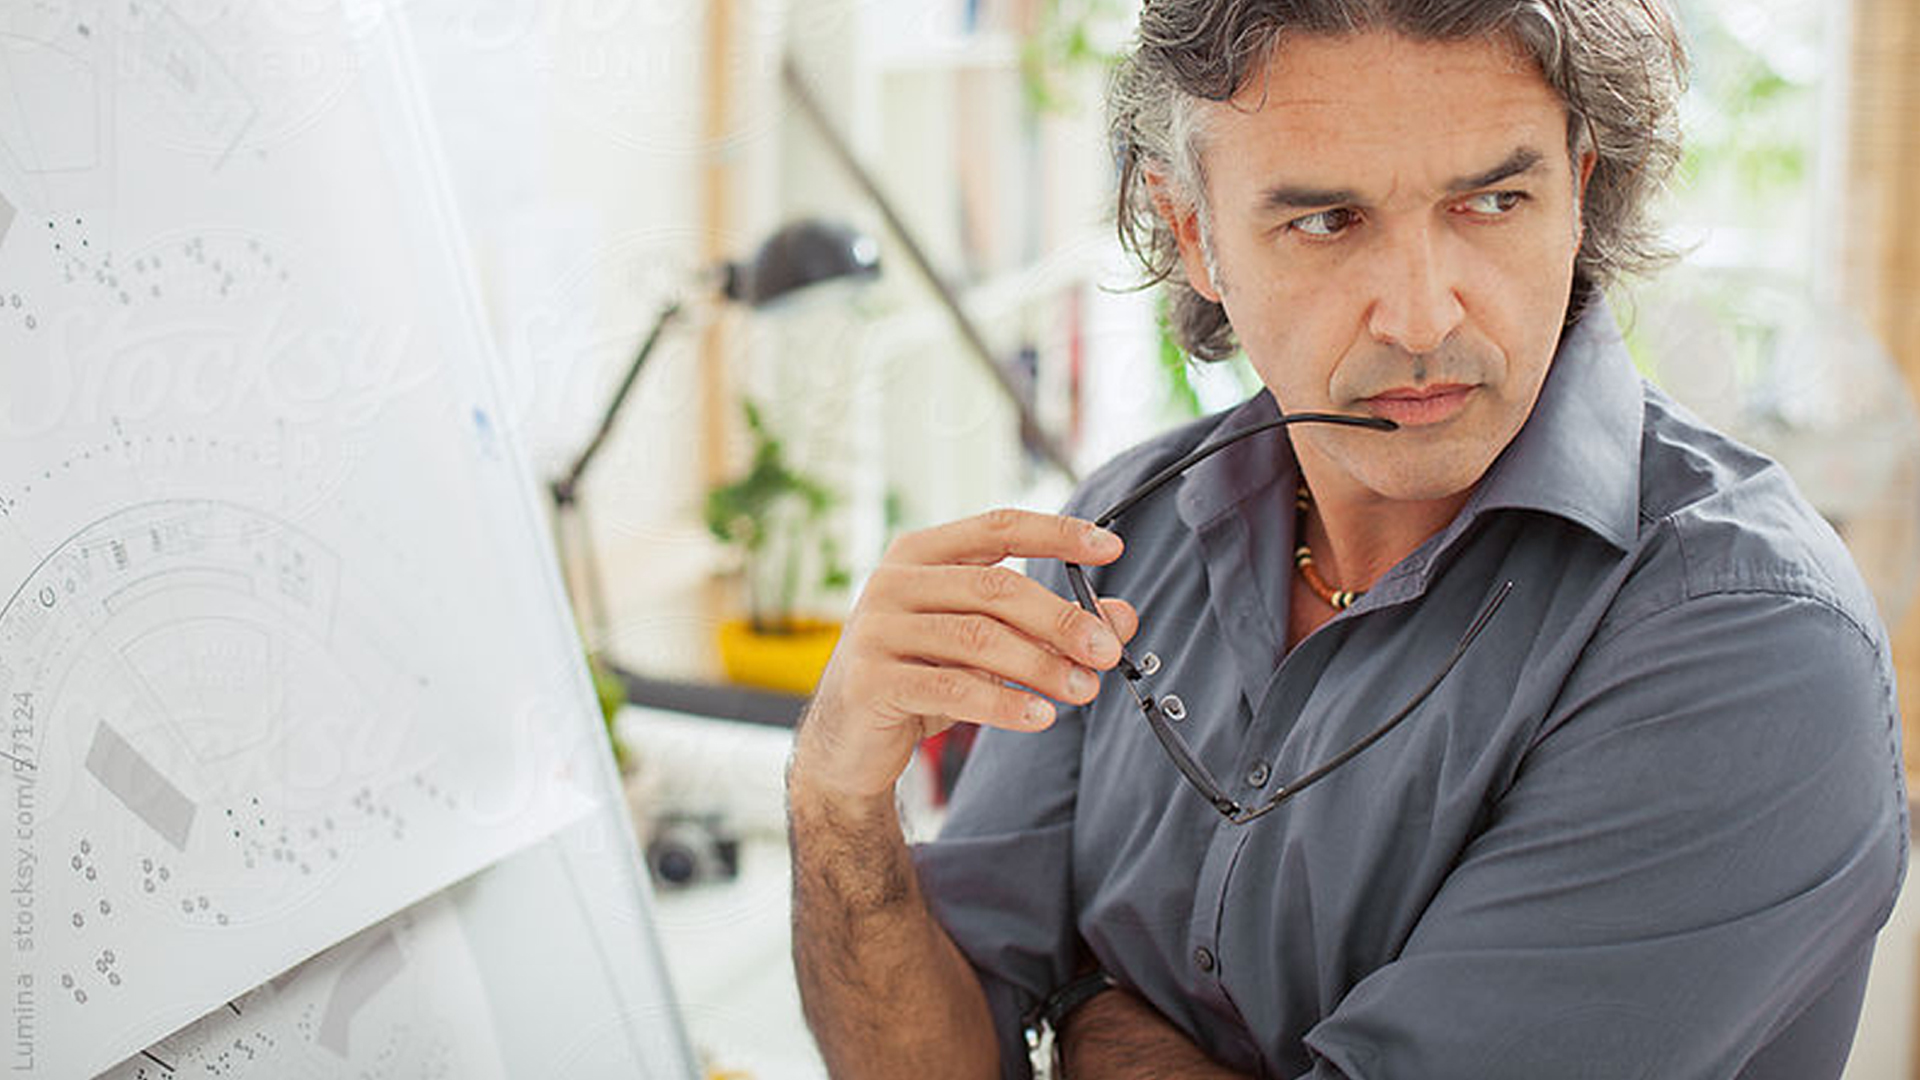
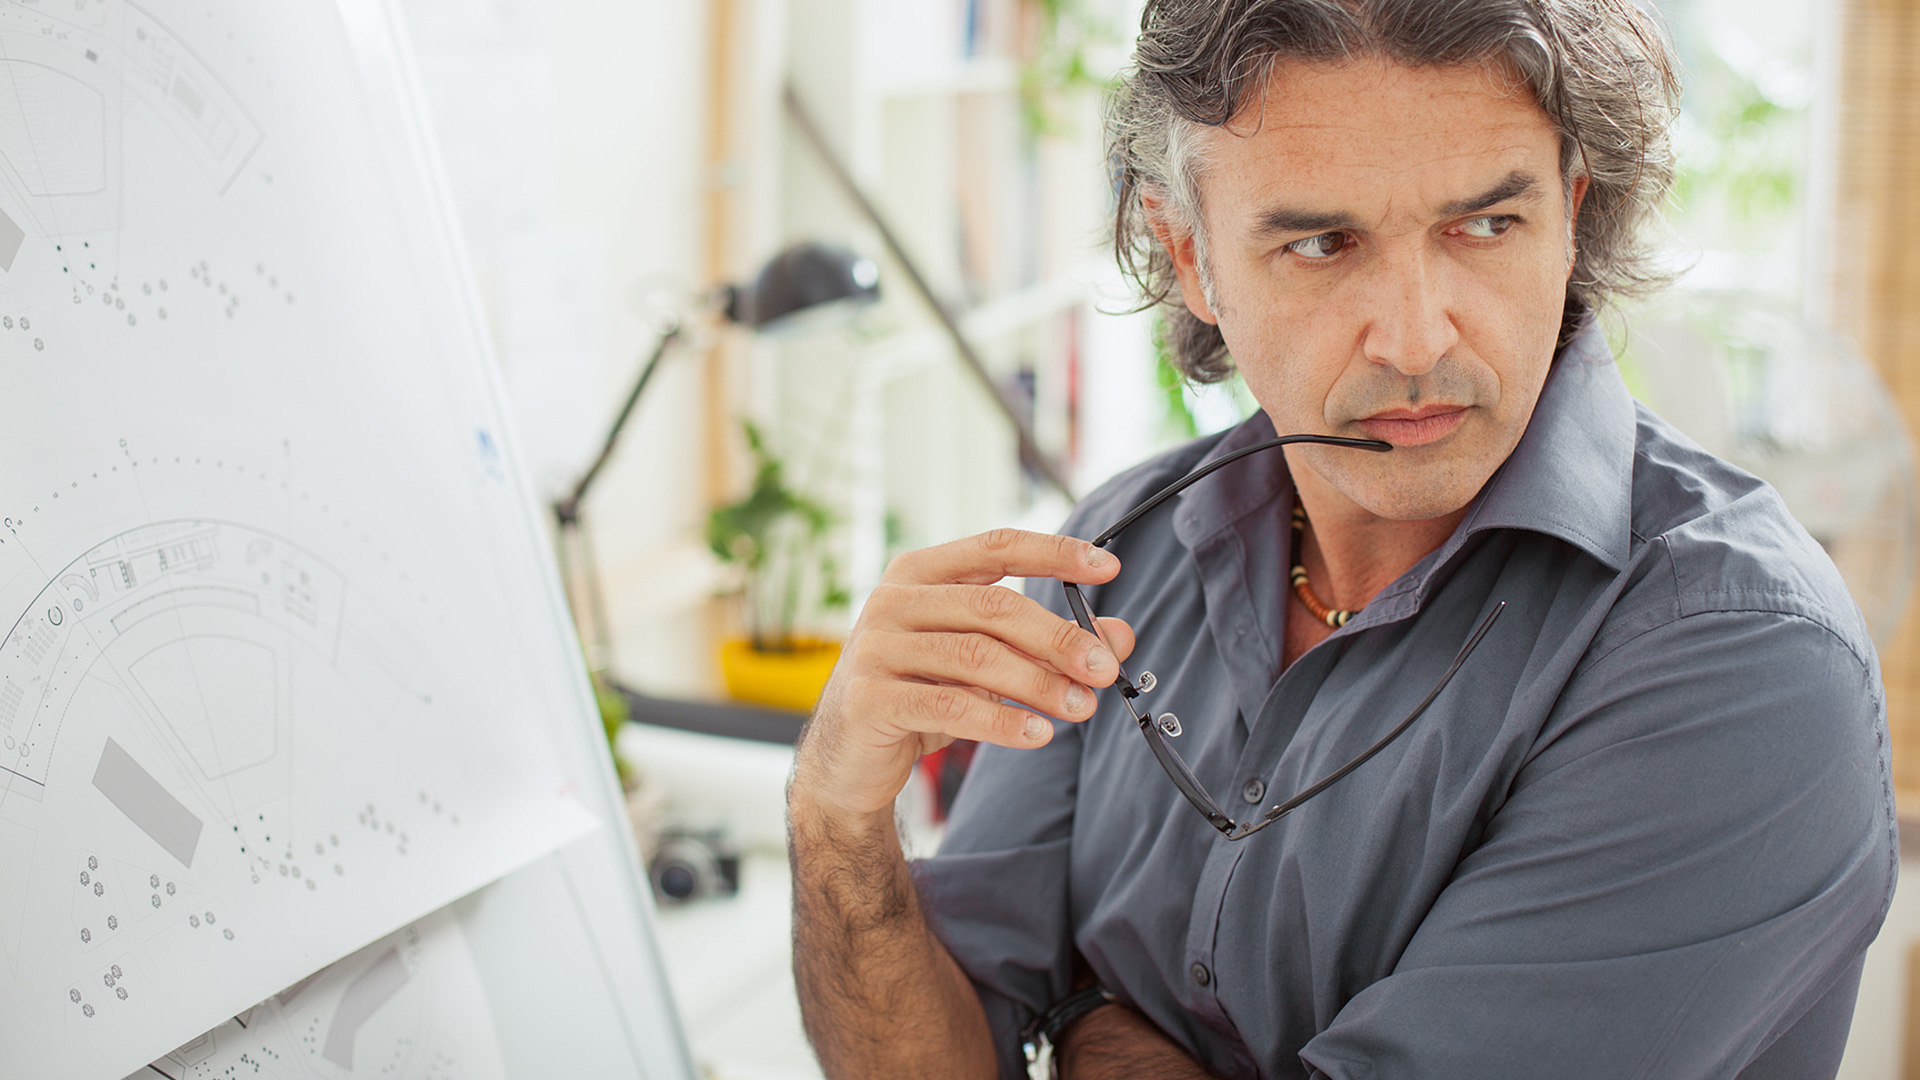
Add final cover images and fix the height of the headers

diff --git a/src/pages/landing-personal.html b/src/pages/landing-personal.html
@@ -1,16 +1,16 @@
 ---
-title: Student Users
+title: Personal Branding
 noSignIn: true
 navigation: transparent
 isNotSticky: true
 ---
 
-<div class="landing-homepage students">
+<div class="landing-homepage personal-branding">
     <div>
         <div class="text-center header">
-            <div class="solid-overlay"></div>
+            <div class="gradient-overlay"></div>
             <div class="header-content">
-                <h1>Get help from an advisor who's worked on 300,000 resumes</h1>
+                <h1>Show the brand of you</h1>
                 <div class="top-sm">
                     <a
                      href="{{ urls.builder }}"
@@ -18,8 +18,8 @@ isNotSticky: true
                      data-category="Homepage"
                      data-action="Click Signup"
                      data-label="Craft Your Resume"
-                     class="btn btn-primary btn-lg">
-                        Try Enhancv Out
+                     class="btn btn-light btn-lg">
+                        Craft Your Resume
                     </a>
                     <p class="top-sm">
                         Free 14-day trial, no credit card required
@@ -328,7 +328,7 @@ isNotSticky: true
     </div>
     <div class="call-to-action">
         <div class="text-center">
-            <h2 class="h1">Try out with a 14-day free trial</h2>
+            <h2 class="h1">Show the best version of yourself</h2>
             <a
              href="{{ urls.builder }}"
              data-track="event"
@@ -336,9 +336,8 @@ isNotSticky: true
              data-action="Click Signup"
              data-label="Craft Your Resume"
              class="btn btn-light btn-lg top-md">
-                Start now
+                Craft Your Resume
             </a>
         </div>
     </div>
 </div>
-

diff --git a/src/assets/scss/pages/unusual-landing.scss b/src/assets/scss/pages/unusual-landing.scss
@@ -1,16 +1,7 @@
 .unusual {
    .header {
-        background:
-         linear-gradient(180deg, rgba($brand-primary,0.5) 0%, $brand-primary 100%),
-         url(/img/landing-pages/experienced/header.jpg);
-        background:
-         linear-gradient(180deg, rgba($brand-primary,0.5) 0%, $brand-primary 100%),
-         -webkit-image-set( url(/img/landing-pages/experienced/header.jpg) 1x, url(/img/landing-pages/experienced/header.jpg) 2x);
-        background:
-         linear-gradient(180deg, rgba($brand-primary,0.5) 0%, $brand-primary 100%),
-         image-set( url(/img/landing-pages/experienced/header.jpg) 1x, url(/img/landing-pages/experienced/header.jpg) 2x);
-         background-size: cover;
-         background-position: center;
+        background-image: url(/img/landing-pages/unusual/header.jpg);
+        height: 720px;
 
         .header-content {
             position: absolute;

diff --git a/src/assets/scss/pages/personal-landing.scss b/src/assets/scss/pages/personal-landing.scss
@@ -1,0 +1,31 @@
+.personal-branding {
+    .header {
+        background-image: url(/img/landing-pages/personal/header.jpg);
+        height: 980px;
+
+        .gradient-overlay {
+            background: rgba(255,255,255,0);
+            background: -webkit-linear-gradient(top, rgba(255,255,255,0) 0%,rgba(255,255,255,0.59) 40%,rgba(255,255,255,1) 90%,rgba(255,255,255,1) 100%);
+            background: linear-gradient(to bottom, rgba(255,255,255,0) 0%,rgba(255,255,255,0.59) 40%,rgba(255,255,255,1) 90%,rgba(255,255,255,1) 100%);
+            height: 30%;
+        }
+
+        .header-content {
+            bottom: 250px;
+            color: #fff;
+
+            p {
+                color: #fff;
+            }
+        }
+    }
+
+    .steps {
+        .step {
+            &:nth-child(2n) {
+                background: #f5f5f5;
+            }
+        }
+    }
+}
+

diff --git a/src/pages/landing-unusual.html b/src/pages/landing-unusual.html
@@ -7,7 +7,7 @@ noSignIn: true
     <div>
         <div class="text-center header">
             <div class="header-content">
-                <h1>The resume that opens doors for you</h1>
+                <h1>Resumes are not just for job hunting!</h1>
                 <h2 class="h4">Use your creativity with Enhancv</h2>
                 <div class="top-sm">
                     <a

diff --git a/src/assets/scss/pages/experienced-landing.scss b/src/assets/scss/pages/experienced-landing.scss
@@ -1,6 +1,12 @@
 .experienced {
     .header {
         background-image: url(/img/landing-pages/experienced/header.jpg);
+        height: 680px;
+
+        @media screen and (max-width: $screen-xs-max) {
+            background-image: url(/img/landing-pages/experienced/header-mobile.jpg);
+            background-position-x: 75%;
+        }
     }
 
     .steps {

diff --git a/src/assets/scss/pages/students-landing.scss b/src/assets/scss/pages/students-landing.scss
@@ -1,12 +1,17 @@
 .students {
    .header {
         background-image: url(/img/landing-pages/students/header.jpg);
+        height: 800px;
 
         .header-content {
             position: absolute;
             bottom: 45px;
             left: 0;
             right: 0;
+        }
+
+        .solid-overlay {
+            height: 300px;
         }
     }
 

diff --git a/src/pages/landing-freelancers.html b/src/pages/landing-freelancers.html
@@ -9,7 +9,7 @@ isNotSticky: true
     <div>
         <div class="text-center header">
             <div class="header-content">
-                <h1>The resume that opens doors for you</h1>
+                <h1>Win clients in a single page</h1>
                 <div class="top-sm">
                     <a
                      href="{{ urls.builder }}"

diff --git a/src/assets/scss/pages/freelancers-landing.scss b/src/assets/scss/pages/freelancers-landing.scss
@@ -1,6 +1,7 @@
 .freelancers {
    .header {
-        background-image: url(/img/landing-pages/experienced/header.jpg);
+        background-image: url(/img/landing-pages/freelancers/header.jpg);
+        height: 800px;
 
         .header-content {
             position: absolute;

diff --git a/src/assets/scss/app.scss b/src/assets/scss/app.scss
@@ -32,6 +32,7 @@
 @import "pages/experienced-landing";
 @import "pages/freelancers-landing";
 @import "pages/unusual-landing";
+@import "pages/personal-landing";
 @import "pages/text-page";
 @import "pages/404";
 

diff --git a/src/assets/scss/partials/header.scss b/src/assets/scss/partials/header.scss
@@ -92,6 +92,9 @@ body.navbar-mobile-active {
     .navbar-mobile-visible {
         display: block;
     }
+    .navbar-transparent {
+        margin-top: 0;
+    }
 }
 
 .navbar.navbar-transparent {

diff --git a/src/assets/scss/pages/landing-homepages.scss b/src/assets/scss/pages/landing-homepages.scss
@@ -6,6 +6,7 @@
     .header {
         background-size: cover;
         background-position: center;
+        background-repeat: no-repeat;
         height: 650px;
         position: relative;
 
